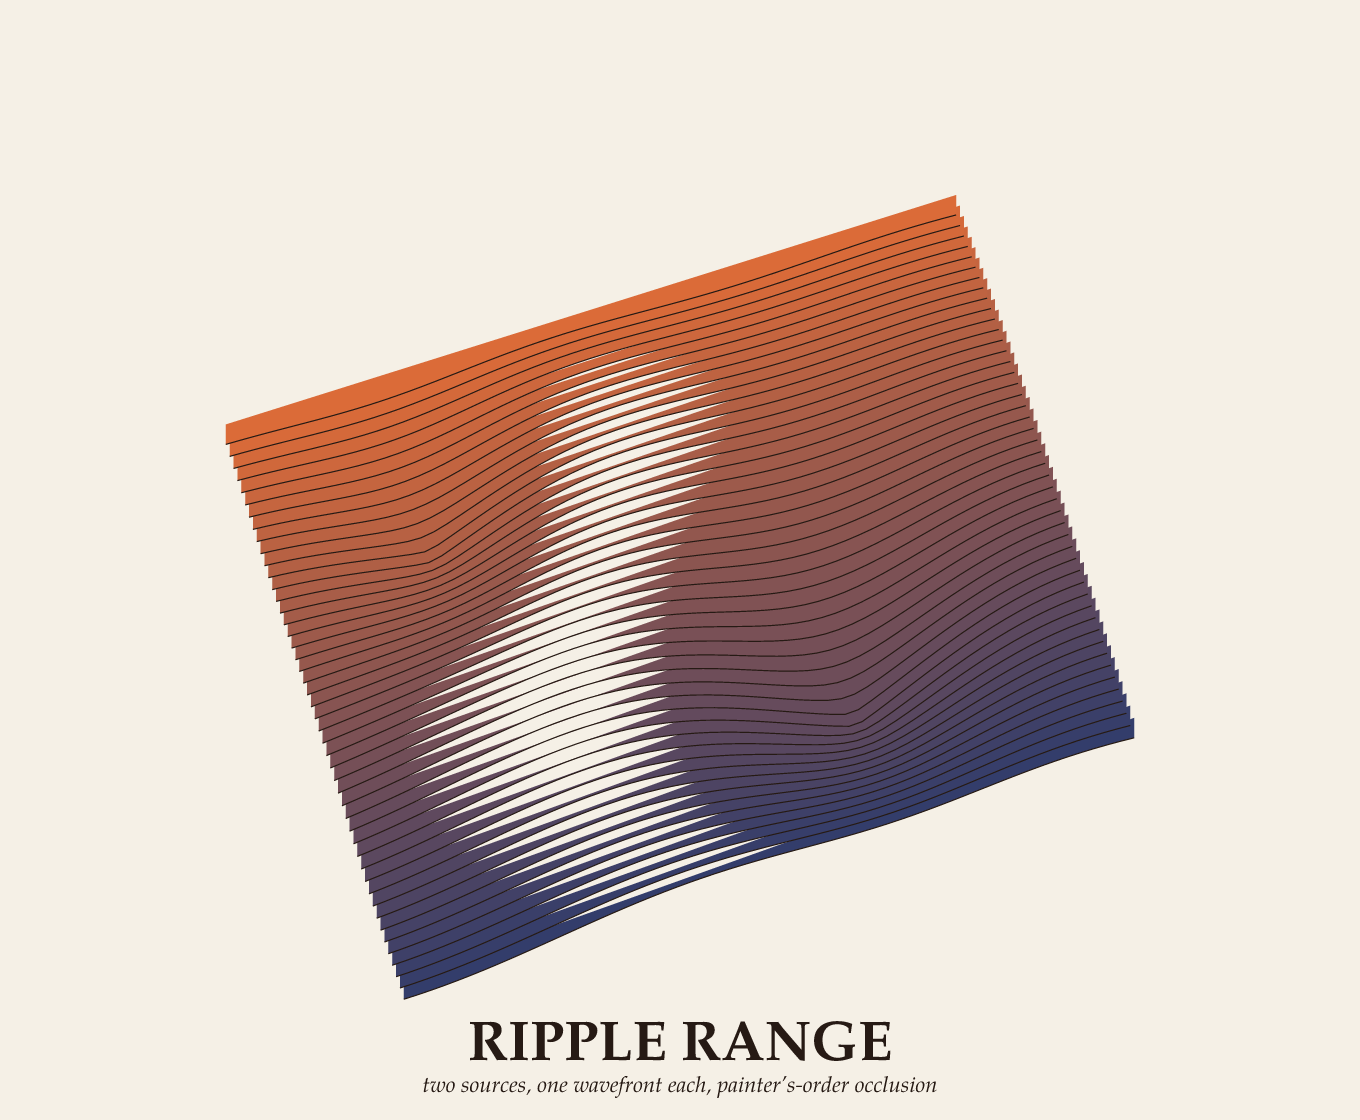
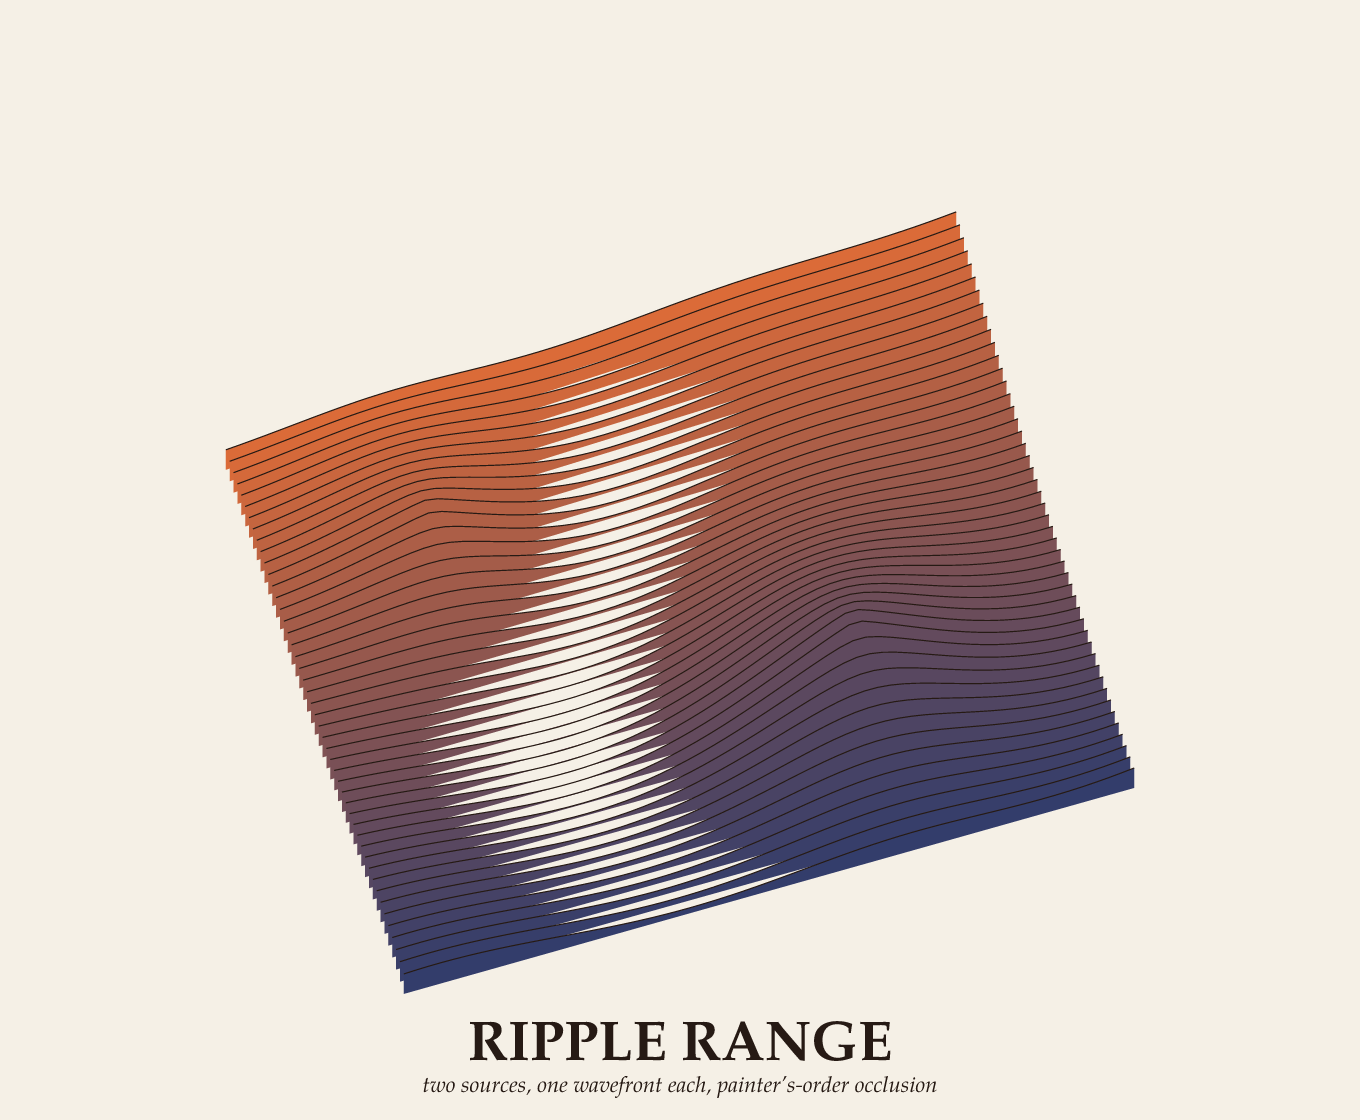
Fix project3's inverted z-sign and axes' dict-pollution bug
Advisor review of the finished diff caught a real bug none of the
existing tests could: project3 subtracted the z term in its screen-y
formula, so height rendered downward instead of up. Every pinned
project3/axes3 test used z=0 or el=0, where that term's sign can't
matter. Fixed the sign, added a test that isolates the z contribution
at el=90 to close the gap, and fixed the gallery piece's own inlined
copy of project3 (self-containment means the library fix doesn't
propagate automatically).

The sign bug also unmasked a second one in Ripple Range: its
back-to-front row sweep was actually front-to-back, just visually
plausible because the two errors partially canceled. Verified and
fixed with a dedicated occlusion test (an isolated spike, both sweep
directions) before trusting the corrected render.

Also fixed: axes was leaking its per-tick loop counters into
GraphFrame's dict instead of userdict (def targets the innermost open
dict) -- harmless today but violates the library's own documented
scratch-naming discipline. Pulled the frame numbers into locals and
closed the dict before looping.

Re-rendered gallery/renders/ripple_range.png and added the missing
site/gallery.html card (found while checking whether the site build
enumerates gallery pieces by name -- it does, and Ripple Range wasn't
in it).

Claude-Session: https://claude.ai/code/session_017k6qwDtah2Xuw6uGGdyaLP

Changed region(s): [[0.1544, 0.1562, 0.8338, 0.9062]]

diff --git a/site/gallery.html b/site/gallery.html
@@ -58,6 +58,8 @@
       <div class="body"><b>Infinite Descent</b><span>A Poincaré-disk {7,3} hyperbolic tessellation — one heptagon reflected across its own edges four generations deep, 232 tiles colored in rings</span></div></div>
     <div class="card"><img src="assets/renders/recursive_peaks.png" alt="Recursive Peaks" loading="lazy">
       <div class="body"><b>Recursive Peaks</b><span>A night mountain range built entirely from artkit's fractals section: gasket-faceted low-poly peaks, a carpet starfield, koch/quadkoch snowflakes overhead</span></div></div>
+    <div class="card"><img src="assets/renders/ripple_range.png" alt="Ripple Range" loading="lazy">
+      <div class="body"><b>Ripple Range</b><span>Two decaying ripple sources summed into a height field, swept row by row under graph.ps's azimuth/elevation camera — each row an occluding filled ridge, back-to-front painter's algorithm</span></div></div>
   </div>
 
   <h2>Style packs</h2>

diff --git a/tests/graph.rs b/tests/graph.rs
@@ -123,6 +123,22 @@ fn setview_and_project3_pin_exact_camera_angles() {
 }
 
 #[test]
+fn project3_renders_positive_z_upward_at_nonzero_elevation() {
+    // Regression guard: an earlier draft subtracted the z term in
+    // project3's screen-y formula, so height rendered *downward* --
+    // invisible in every test above, since they all use z=0 or el=0,
+    // where the sign of that term never matters (it's multiplied by
+    // sin(el) or by z itself, either of which was zero). el=90 makes
+    // sin(el)=1 and cos(el)=0 exactly, isolating the z contribution
+    // completely: with az=0 and x=y=0, (0,0,z) must project to
+    // exactly (0, z) -- higher z, higher devy, i.e. up the page.
+    let got = eval_f64("0 90 1 0 0 setview 0 0 5 project3");
+    assert_eq!(got, [0.0, 5.0]);
+    let got = eval_f64("0 90 1 0 0 setview 0 0 -5 project3");
+    assert_eq!(got, [0.0, -5.0]);
+}
+
+#[test]
 fn axes3_draws_three_segments_from_the_projected_origin() {
     let got = eval_f64("0 0 1 0 0 setview newpath 5 6 7 axes3 pathbbox");
     // Identity view: origin (0,0,0)->(0,0); endpoints (5,0,0),(0,6,0),

diff --git a/NOTES.md b/NOTES.md
@@ -78,6 +78,48 @@ Two real bugs, both caught before merge rather than by review:
   (2×(nx+1)×(ny+1): rows and columns each resample every vertex on
   their own independent pass, no z caching between them).
 
+A third, more serious bug surfaced at the step-6 advisor review of the
+finished diff, not by any test above: `project3`'s screen-y formula
+subtracted the z term (`gvy1 cos(el) - gvz sin(el)`), so height
+rendered *downward* on screen — a peak at higher z landed lower on the
+page. Every pinned `project3`/`axes3` test used either z=0 or el=0,
+where that term's sign can't matter (multiplied by zero either way),
+so nothing caught it. Confirmed empirically before touching anything:
+`0 0 1 0 0 setview` (identity) placed `(0,0,8)` correctly at devy 240
+above the origin's 180 once flipped to `+`, versus 119.8 *below* it
+before. Fixed by flipping the sign to `add`; a new test
+(`project3_renders_positive_z_upward_at_nonzero_elevation`) isolates
+the z term exactly by setting el=90 (sin=1, cos=0), so `(0,0,z)` must
+land at precisely `(0,z)` — the gap the other tests left. The fix
+mattered beyond direction alone: Ripple Range's back-to-front
+occlusion claim turned out to depend on it in a way that was masked by
+two errors partially canceling — the original row sweep (`0 1 ny2`)
+actually drew near rows first and far rows last (backwards for
+painter's algorithm), but combined with the inverted z sign, the
+result still *looked* like a plausible ripple field. Verified with a
+dedicated test scene (an isolated tall spike on an otherwise flat
+field, rendered both sweep directions): the buggy order visibly
+chopped the spike's peak off under later-drawn "farther" rows; the
+corrected order (`ny2 -1 0`, drawn genuinely far-to-near) rendered it
+as a clean, fully unoccluded silhouette. Both `lib/graph.ps`'s
+`project3` and the gallery piece's own inlined copy needed the same
+one-character sign fix — the second copy is exactly the risk the
+self-containment doctrine accepts (a fix to the library doesn't
+propagate to pieces that inlined it before the fix landed) in exchange
+for pieces staying runnable standalone.
+
+Also from that review: `axes` was defining its per-tick loop counters
+(`gpi`/`gppx`/`gpj`/`gppy`) *inside* `GraphFrame begin ... end` — since
+`def` always targets the innermost open dict, every call was leaking
+loop scratch into the frame's own 8-slot dict instead of userdict,
+the exact `tg-`-style composition trap this file's own header warns
+about, just against a data dict instead of another driver. Didn't fail
+today (both pscat and gs auto-grow dicts past their declared size),
+but it violated the library's own stated rule in a way a future
+reviewer would flag. Fixed by pulling `px`/`py`/`pw`/`ph` into local
+variables and closing `GraphFrame`'s dict before looping, rather than
+threading the whole tick computation through it.
+
 New demo: `examples/graphing.ps`, a four-quadrant specimen sheet
 (plotfn: a two-harmonic wave; plotparam: a 3:2 Lissajous figure;
 plotpolar: a five-petaled rose; plotsurface: a radial ripple under
